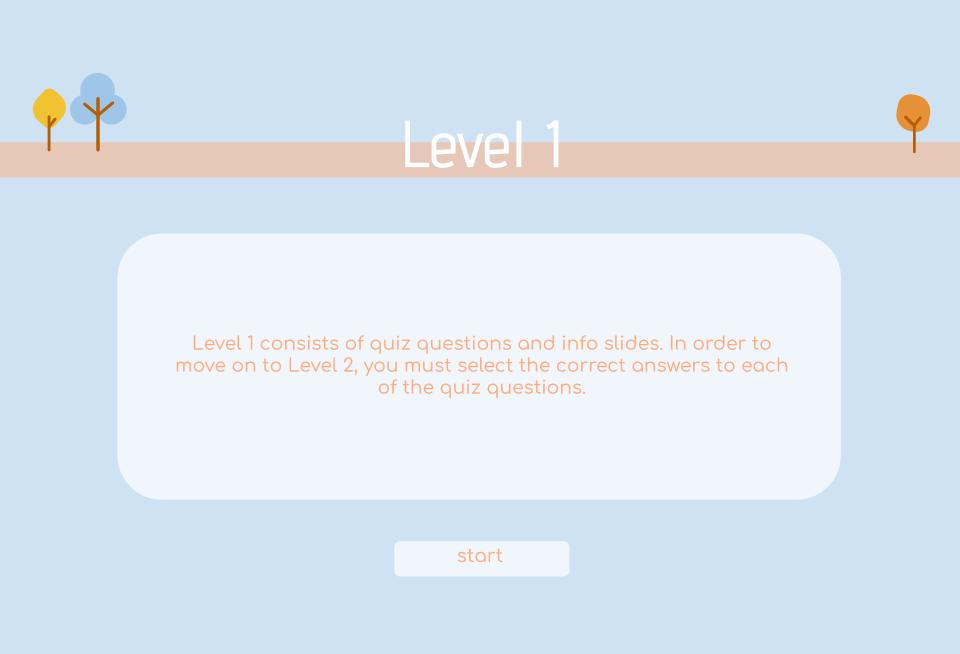
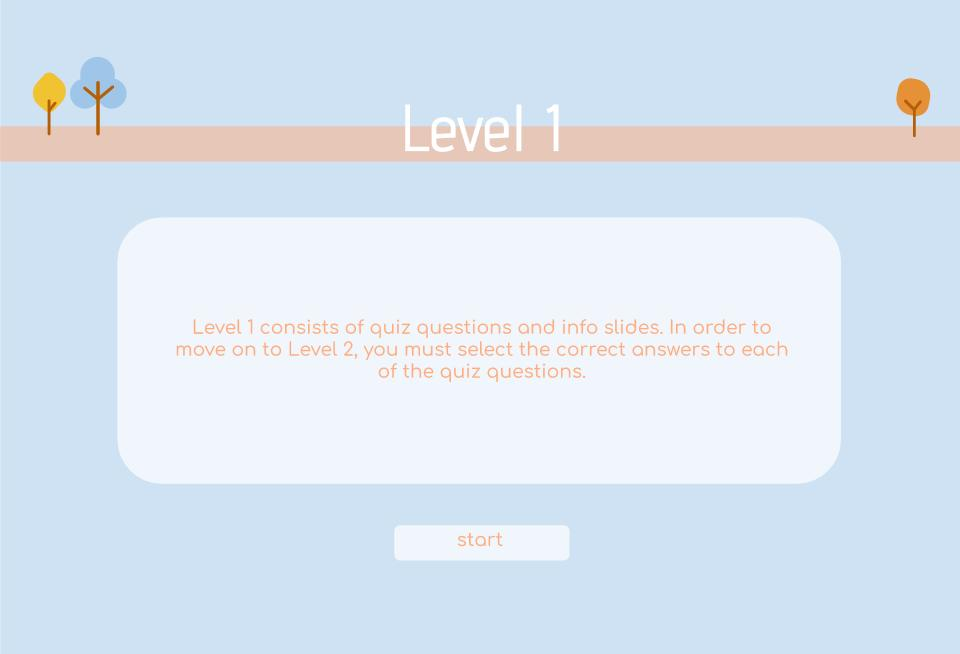
YEE

diff --git a/src/Level1.java b/src/Level1.java
@@ -24,119 +24,95 @@ public class Level1 {
     }
 
     public void question1() {
-        java.net.URL imgUrl = Main.class.getResource("Question 1.jpg");
-        ImageIcon icon = new ImageIcon(imgUrl);
-        bkg = new JLabel(icon); // gets question image
-        bkg.setBounds(0, 0, 700, 500);
+        Image icon = new ImageIcon("Question 1.jpg").getImage().getScaledInstance(700, 500, 100);
+        JLabel bkg = new JLabel(new ImageIcon (icon)); //Gets background image
         bkg.setVisible(true);
         game.add(bkg);
         game.setVisible(true);
     }
 
     public void info1() {
-        java.net.URL imgUrl = Main.class.getResource("Info 1.jpg");
-        ImageIcon icon = new ImageIcon(imgUrl);
-        bkg.setIcon(icon); // gets question image
-        bkg.setBounds(0, 0, 700, 500);
+        Image icon = new ImageIcon("Info 1.jpg").getImage().getScaledInstance(700, 500, 100);
+        JLabel bkg = new JLabel(new ImageIcon (icon)); //Gets background image
         bkg.setVisible(true);
         game.add(bkg);
         game.setVisible(true);
     }
 
     public void question2() {
-        java.net.URL imgUrl = Main.class.getResource("Question 2.jpg");
-        ImageIcon icon = new ImageIcon(imgUrl);
-        bkg.setIcon(icon); // gets question image
-        bkg.setBounds(0, 0, 700, 500);
+        Image icon = new ImageIcon("Question 2.jpg").getImage().getScaledInstance(700, 500, 100);
+        JLabel bkg = new JLabel(new ImageIcon (icon)); //Gets background image
         bkg.setVisible(true);
         game.add(bkg);
         game.setVisible(true);
     }
 
     public void info2() {
-        java.net.URL imgUrl = Main.class.getResource("Info 2.jpg");
-        ImageIcon icon = new ImageIcon(imgUrl);
-        bkg.setIcon(icon); // gets question image
-        bkg.setBounds(0, 0, 700, 500);
+        Image icon = new ImageIcon("Info 2.jpg").getImage().getScaledInstance(700, 500, 100);
+        JLabel bkg = new JLabel(new ImageIcon (icon)); //Gets background image
         bkg.setVisible(true);
         game.add(bkg);
         game.setVisible(true);
     }
 
     public void question3() {
-        java.net.URL imgUrl = Main.class.getResource("Question 3.jpg");
-        ImageIcon icon = new ImageIcon(imgUrl);
-        bkg.setIcon(icon); // gets question image
-        bkg.setBounds(0, 0, 700, 500);
+        Image icon = new ImageIcon("Question 3.jpg").getImage().getScaledInstance(700, 500, 100);
+        JLabel bkg = new JLabel(new ImageIcon (icon)); //Gets background image
         bkg.setVisible(true);
         game.add(bkg);
         game.setVisible(true);
     }
 
     public void info3() {
-        java.net.URL imgUrl = Main.class.getResource("Info 3.jpg");
-        ImageIcon icon = new ImageIcon(imgUrl);
-        bkg.setIcon(icon); // gets question image
-        bkg.setBounds(0, 0, 700, 500);
+        Image icon = new ImageIcon("Info 3.jpg").getImage().getScaledInstance(700, 500, 100);
+        JLabel bkg = new JLabel(new ImageIcon (icon)); //Gets background image
         bkg.setVisible(true);
         game.add(bkg);
         game.setVisible(true);
     }
 
     public void question4() {
-        java.net.URL imgUrl = Main.class.getResource("Question 4.jpg");
-        ImageIcon icon = new ImageIcon(imgUrl);
-        bkg.setIcon(icon); // gets question image
-        bkg.setBounds(0, 0, 700, 500);
+        Image icon = new ImageIcon("Question 4.jpg").getImage().getScaledInstance(700, 500, 100);
+        JLabel bkg = new JLabel(new ImageIcon (icon)); //Gets background image
         bkg.setVisible(true);
         game.add(bkg);
         game.setVisible(true);
     }
 
     public void info4() {
-        java.net.URL imgUrl = Main.class.getResource("Info 4.jpg");
-        ImageIcon icon = new ImageIcon(imgUrl);
-        bkg.setIcon(icon); // gets question image
-        bkg.setBounds(0, 0, 700, 500);
+        Image icon = new ImageIcon("Info 4.jpg").getImage().getScaledInstance(700, 500, 100);
+        JLabel bkg = new JLabel(new ImageIcon (icon)); //Gets background image
         bkg.setVisible(true);
         game.add(bkg);
         game.setVisible(true);
     }
 
     public void question5() {
-        java.net.URL imgUrl = Main.class.getResource("Question 5.jpg");
-        ImageIcon icon = new ImageIcon(imgUrl);
-        bkg.setIcon(icon); // gets question image
-        bkg.setBounds(0, 0, 700, 500);
+        Image icon = new ImageIcon("Question 5.jpg").getImage().getScaledInstance(700, 500, 100);
+        JLabel bkg = new JLabel(new ImageIcon (icon)); //Gets background image
         bkg.setVisible(true);
         game.add(bkg);
         game.setVisible(true);
     }
 
     public void info5() {
-        java.net.URL imgUrl = Main.class.getResource("Info 5.jpg");
-        ImageIcon icon = new ImageIcon(imgUrl);
-        bkg.setIcon(icon); // gets question image
-        bkg.setBounds(0, 0, 700, 500);
+        Image icon = new ImageIcon("Info 5.jpg").getImage().getScaledInstance(700, 500, 100);
+        JLabel bkg = new JLabel(new ImageIcon (icon)); //Gets background image
         bkg.setVisible(true);
         game.add(bkg);
         game.setVisible(true);
     }
     public void question6() {
-        java.net.URL imgUrl = Main.class.getResource("Question 6 (1).jpg");
-        ImageIcon icon = new ImageIcon(imgUrl);
-        bkg.setIcon(icon); // gets question image
-        bkg.setBounds(0, 0, 700, 500);
+        Image icon = new ImageIcon("Question 6.jpg").getImage().getScaledInstance(700, 500, 100);
+        JLabel bkg = new JLabel(new ImageIcon (icon)); //Gets background image
         bkg.setVisible(true);
         game.add(bkg);
         game.setVisible(true);
     }
 
     public void info6() {
-        java.net.URL imgUrl = Main.class.getResource("Info 6.jpg");
-        ImageIcon icon = new ImageIcon(imgUrl);
-        bkg.setIcon(icon); // gets question image
-        bkg.setBounds(0, 0, 700, 500);
+        Image icon = new ImageIcon("Info 6.jpg").getImage().getScaledInstance(700, 500, 100);
+        JLabel bkg = new JLabel(new ImageIcon (icon)); //Gets background image
         bkg.setVisible(true);
         game.add(bkg);
         game.setVisible(true);
@@ -153,10 +129,8 @@ public class Level1 {
     }
 
     public void failed(){
-        java.net.URL imgUrl = Main.class.getResource("Question 1.jpg");
-        ImageIcon icon = new ImageIcon(imgUrl);
-        bkg.setIcon(icon); // gets question image
-        bkg.setBounds(0, 0, 700, 500);
+        Image icon = new ImageIcon("Fail.jpg").getImage().getScaledInstance(700, 500, 100);
+        JLabel bkg = new JLabel(new ImageIcon (icon)); //Gets background image
         bkg.setVisible(true);
         game.add(bkg);
         game.setVisible(true);

diff --git a/src/UserInput.java b/src/UserInput.java
@@ -60,13 +60,13 @@ public class UserInput extends MouseAdapter implements KeyListener {
         int y = e.getY();
         System.out.println("x: " + x + " y: " + y);
         if (screen.getScreen() == 2) {
-            if (x >= 240 && x <= 460 && y >= 210 && y <= 240) {
+            if (x >= 190 && x <= 500 && y >= 230 && y <= 260) {
                 screen.setScreen(3);
-            } else if (x >= 220 && x <= 480 && y >= 270 && y <= 300) {
+            } else if (x >= 190 && x <= 500 && y >= 270 && y <= 300) {
                 screen.setScreen(4);
-            } else if (x >= 300 && x <= 420 && y >= 300 && y <= 350) {
+            } else if (x >= 190 && x <= 500 && y >= 320 && y <= 350) {
                 screen.setScreen(5);
-            } else if (x >= 300 && x <= 420 && y >= 360 && y <= 405) {
+            } else if (x >= 190 && x <= 500 && y >= 360 && y <= 390) {
                 screen.setScreen(6);
             }
         } else if (screen.getScreen() == 3) {
@@ -80,7 +80,7 @@ public class UserInput extends MouseAdapter implements KeyListener {
                 screen.setScreen(2);
             }
         } else if (screen.getScreen() == 5) {
-            if (x >= 190 && y >= 415 && x <= 510 && y <= 480) {
+            if (x >= 285 && y >= 435 && x <= 415 && y <= 465) {
                 screen.setScreen(7);
                 learn = new Level1(game, screen);
                 // System.out.println(learn);
@@ -89,44 +89,67 @@ public class UserInput extends MouseAdapter implements KeyListener {
             System.out.println("THIS IS WORKING");
             learn.question1();
             if (x >= 360 && y >= 150 && x <= 660 && y <= 290) {
-                screen.setScreen(9);
+                screen.setScreen(8);
                 correct.setCorrect(true);
             }
+            else 
+            {
+                //fail screen
+            }
         } else if (screen.getScreen() == 8) {
+            screen.setScreen(9);
             learn.info1();
         } else if (screen.getScreen() == 9) {
             learn.question2();
             if (x >= 40 && y >= 330 && x <= 335 && y <= 490) {
-                screen.setScreen(11);
+                screen.setScreen(10);
                 correct.setCorrect(true);
             }
+            else {
+                //fail screen
+            }
         } else if (screen.getScreen() == 10) {
+            screen.setScreen(11);
             learn.info2();
         } else if (screen.getScreen() == 11) {
             learn.question3();
             if (x >= 360 && y >= 150 && x <= 660 && y <= 310) {
-                screen.setScreen(13);
+                screen.setScreen(12);
                 correct.setCorrect(true);
             }
+            else 
+            {
+                //fail screen
+            }
         } else if (screen.getScreen() == 12) {
+            screen.setScreen (13);
             learn.info3();
         } else if (screen.getScreen() == 13) {
             learn.question4();
             if (x >= 35 && y >= 150 && x <= 330 && y <= 310) {
-                screen.setScreen(15);
+                screen.setScreen(14);
                 correct.setCorrect(true);
             }
-
+            else 
+            {
+                //fail screen
+            }
         } else if (screen.getScreen() == 14) {
+            screen.setScreen(15);
             learn.info4();
         } else if (screen.getScreen() == 15) {
             learn.question5();
             if (x >= 35 && y >= 150 && x <= 330 && y <= 310) {
-                screen.setScreen(17);
+                screen.setScreen(16);
                 correct.setCorrect(true);
+            }
+            else 
+            {
+                //fail screen
             }
             // break;
         } else if (screen.getScreen() == 16) {
+            screen.setScreen(17);
             learn.info5();
         } else if (screen.getScreen() == 17) {
             learn.question6();
@@ -134,30 +157,6 @@ public class UserInput extends MouseAdapter implements KeyListener {
                 screen.setScreen(17);
                 correct.setCorrect(true);
             }
-        }
-    }
-    public void paintComponent (Graphics g)
-    {
-        System.out.println ("Graphics g is working");
-        if (screen.getScreen ()== 7 && correct.getCorrect() == true)
-        {
-            g.setColor (Color.GREEN);
-            g.drawRect(30, 40, 150, 50);
-        }
-        if (screen.getScreen ()== 9 && correct.getCorrect() == true)
-        {
-            g.setColor (Color.GREEN);
-            g.drawRect(30, 40, 150, 50);
-        }
-        if (screen.getScreen ()== 11 && correct.getCorrect() == true)
-        {
-            g.setColor (Color.GREEN);
-            g.drawRect(30, 40, 150, 50);
-        }
-        if (screen.getScreen ()== 13 && correct.getCorrect() == true)
-        {
-            g.setColor (Color.GREEN);
-            g.drawRect(30, 40, 150, 50);
         }
     }
 }

diff --git a/src/Main.java b/src/Main.java
@@ -33,11 +33,8 @@ public class Main {
     }
 
     public void introduction() {
-
-        java.net.URL imgUrl = Main.class.getResource("Title Card.jpg");
-        ImageIcon icon = new ImageIcon(imgUrl);
-        JLabel bkg = new JLabel(icon); //Gets background image
-        bkg.setBounds(0,0,700,500);
+        Image icon = new ImageIcon("Title Card.jpg").getImage().getScaledInstance(700, 500, 100);
+        JLabel bkg = new JLabel(new ImageIcon (icon)); //Gets background image
         bkg.setVisible(true);
         mainScreen.add(bkg);
         mainScreen.setVisible(true);
@@ -52,10 +49,8 @@ public class Main {
     }
 
     public void mainMenu() {
-        java.net.URL imgUrl = Main.class.getResource("Menu.jpg");
-        ImageIcon icon = new ImageIcon(imgUrl);
-        JLabel bkg = new JLabel(icon); //Gets background image
-        bkg.setBounds(0,0,700,500);
+        Image icon = new ImageIcon("Menu.jpg").getImage().getScaledInstance(700, 500, 100);
+        JLabel bkg = new JLabel(new ImageIcon (icon)); //Gets background image
         bkg.setVisible(true);
         mainScreen.add(bkg);
         mainScreen.setVisible(true);
@@ -76,22 +71,17 @@ public class Main {
         java.net.URL imgUrl = Main.class.getResource("Learn Instructions Page.jpg");
         ImageIcon icon = new ImageIcon(imgUrl);
         JLabel bkg = new JLabel(icon); // gets flowers image
-        bkg.setBounds(-5,-5,700,500);
         bkg.setVisible(true);
         mainScreen.add(bkg);
         mainScreen.setVisible(true);
     }
 
     public void play() {
-        java.net.URL imgUrl = Main.class.getResource("Level 1 Start.jpg");
-        ImageIcon icon = new ImageIcon(imgUrl);
-        JLabel bkg = new JLabel(icon); // gets flowers image
-        bkg.setBounds(-5,-5,700,500);
+        Image icon = new ImageIcon("Level 1 Start.jpg").getImage().getScaledInstance(700, 500, 100);
+        JLabel bkg = new JLabel(new ImageIcon (icon)); //Gets background image
         bkg.setVisible(true);
         mainScreen.add(bkg);
         mainScreen.setVisible(true);
-        
-
     }
 
     public void goodbye() {
